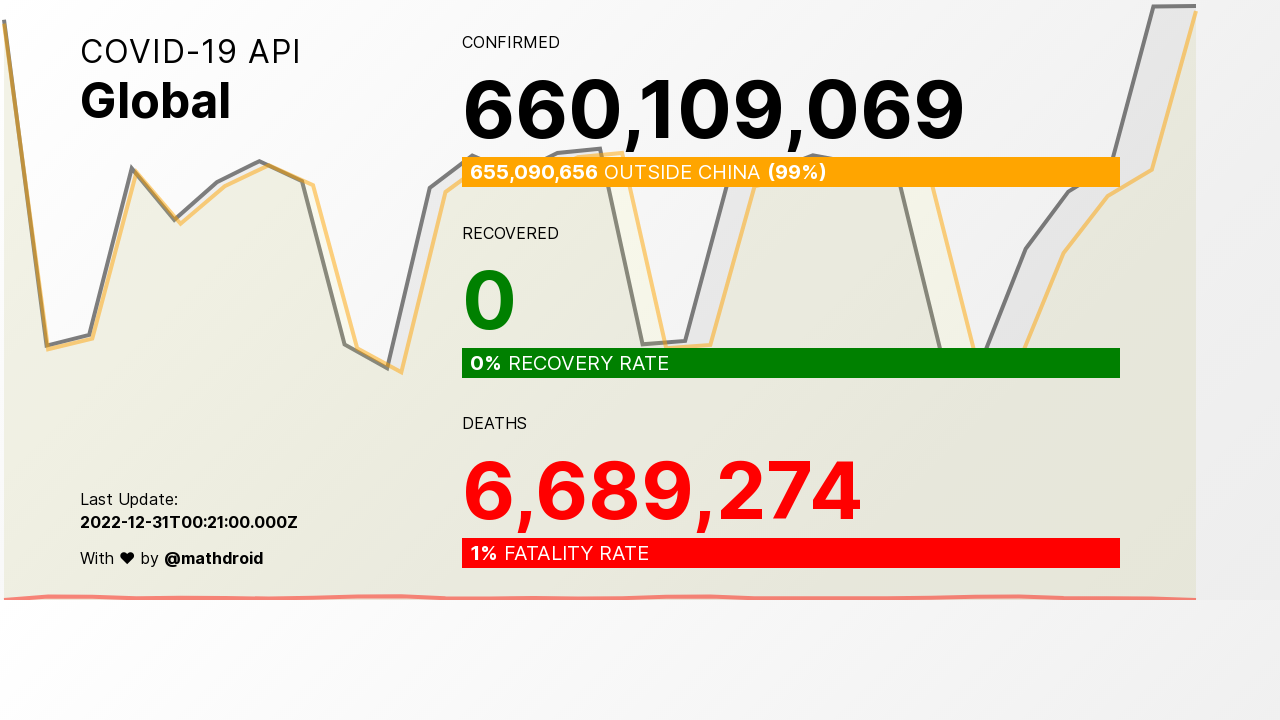
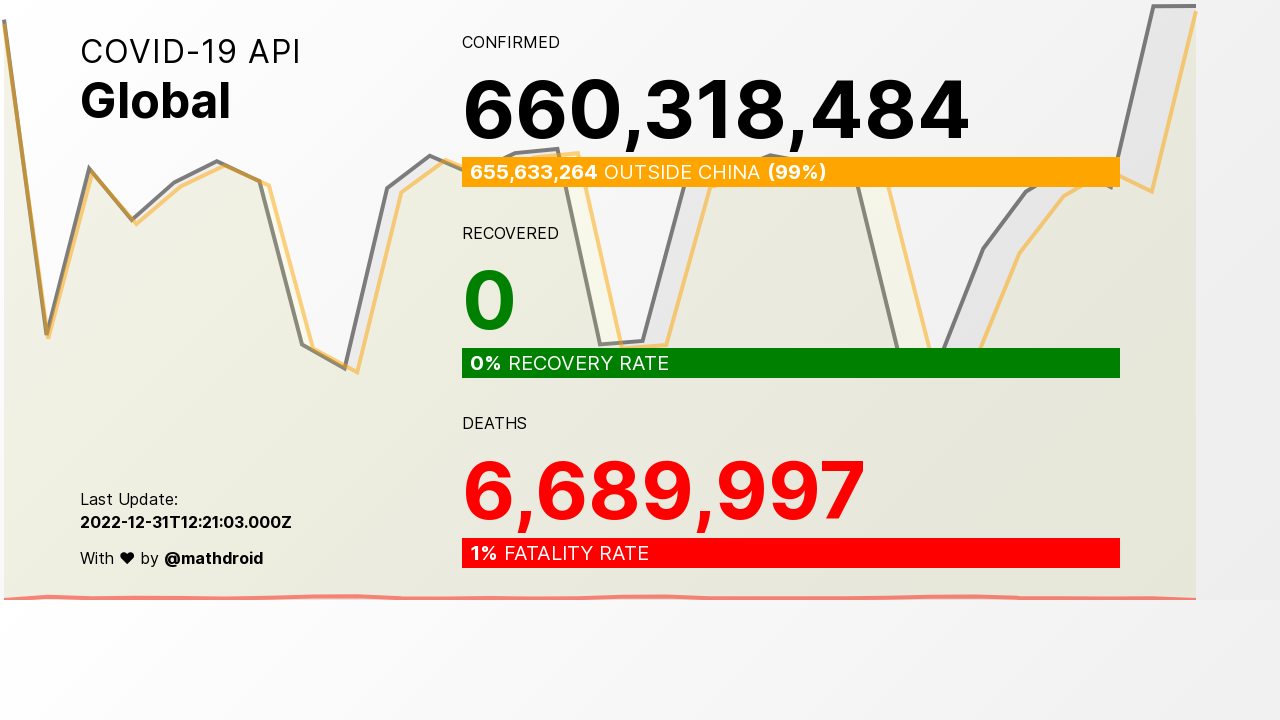
Add changes

diff --git a/README.md b/README.md
@@ -1,6 +1,6 @@
 # store covid daily api as json data
 
-- last cronjob : Saturday, 31 December 2022 01:02:07
+- last cronjob : Saturday, 31 December 2022 13:15:11
 - status og cron : success
 - status daily cron : success
       
